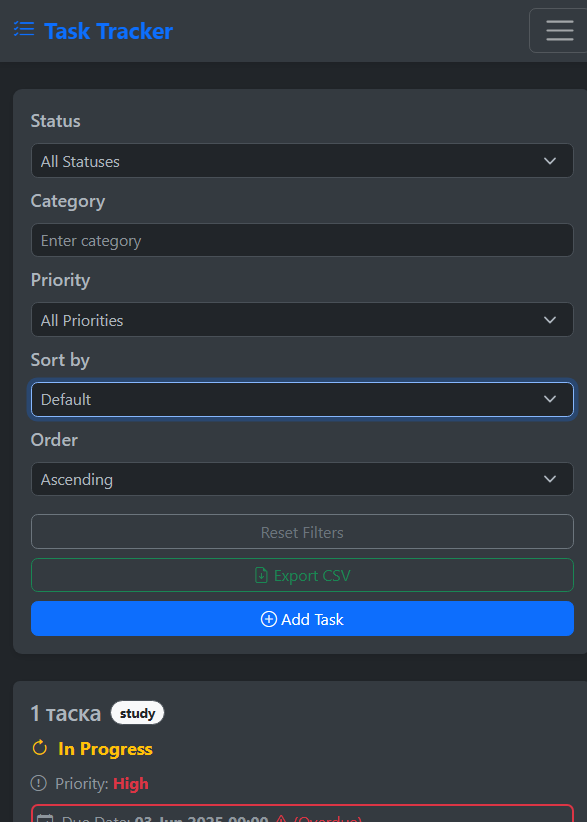
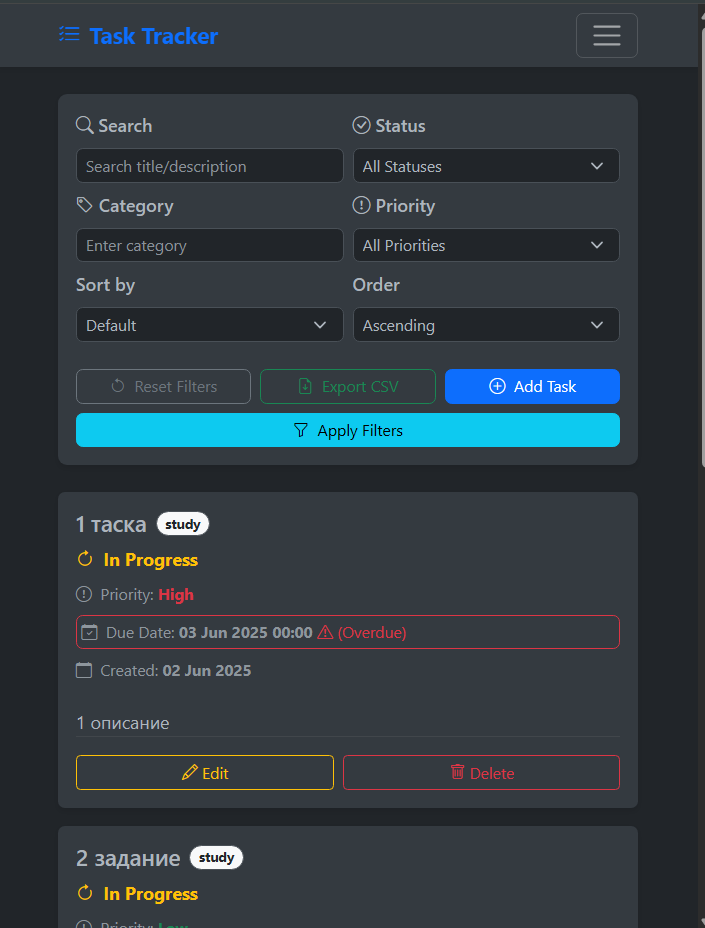
Refactor main page styles and update screenshots
- Updated CSS styles for main layout
- Adjusted HTML structure in index.html
- Replaced outdated screenshots (desktop, mobile)
- Added new tablet view screenshot
- Updated README with latest visuals

diff --git a/app/templates/index.html b/app/templates/index.html
@@ -1,17 +1,20 @@
-{% extends "base.html" %}
+{% extends "base.html" %}  {# Наследование базового шаблона #}
 
-{% block title %}Task Tracker{% endblock %}
+{% block title %}Task Tracker{% endblock %}  {# Заголовок страницы #}
 
 {% block content %}
-<!-- Основной контейнер формы фильтров с закруглёнными углами и тенью -->
 <div class="bg-body-secondary rounded-3 p-3 shadow-sm mb-4">
-    <form method="GET" id="filterForm">
-        <!-- Первый ряд: фильтры и сортировка -->
+    <form method="GET" id="filterForm">  {# Форма фильтров для задач #}
         <div class="row g-2 align-items-end">
-            <!-- Поле выбора статуса задачи -->
-            <div class="col-12 col-sm-6 col-md-3">
+
+            <div class="col-12 col-sm-6 col-md-3 col-lg-2"> {# Расширенный поиск по заголовку/описанию #}
+                <label for="searchFilter" class="form-label fw-medium mb-2"><i class="bi bi-search me-1"></i>Search</label>
+                <input type="text" name="search" id="searchFilter" class="form-control" placeholder="Search title/description" value="{{ request.args.get('search', '') }}">
+            </div>
+            
+            <div class="col-12 col-sm-6 col-md-3 col-lg-2">
                 <label for="statusFilter" class="form-label fw-medium mb-2"> <i class="bi bi-check-circle"></i> Status</label>
-                <select name="status" id="statusFilter" class="form-select" onchange="document.getElementById('filterForm').submit()">
+                <select name="status" id="statusFilter" class="form-select">
                     <option value="">All Statuses</option>
                     <option value="Not Started" {% if status_filter=='Not Started' %}selected{% endif %}>Not Started</option>
                     <option value="In Progress" {% if status_filter=='In Progress' %}selected{% endif %}>In Progress</option>
@@ -19,17 +22,15 @@
                 </select>
             </div>
 
-            <!-- Поле ввода категории задачи -->
-            <div class="col-12 col-sm-6 col-md-3">
+            <div class="col-12 col-sm-6 col-md-3 col-lg-2">
                 <label for="categoryFilter" class="form-label fw-medium mb-2"> <i class="bi bi-tag"></i> Category</label>
                 <input type="text" name="category" id="categoryFilter" class="form-control" placeholder="Enter category"
                        value="{{ category_filter or '' }}">
             </div>
 
-            <!-- Поле выбора приоритета для фильтрации -->
-            <div class="col-12 col-sm-6 col-md-2">
+            <div class="col-12 col-sm-6 col-md-3 col-lg-2">
                 <label for="priorityFilter" class="form-label fw-medium mb-2"> <i class="bi bi-exclamation-circle"></i> Priority</label>
-                <select name="priority" id="priorityFilter" class="form-select" onchange="document.getElementById('filterForm').submit()">
+                <select name="priority" id="priorityFilter" class="form-select">
                     <option value="">All Priorities</option>
                     <option value="High" {% if request.args.get('priority') == 'High' %}selected{% endif %}>High</option>
                     <option value="Medium" {% if request.args.get('priority') == 'Medium' %}selected{% endif %}>Medium</option>
@@ -37,10 +38,11 @@
                 </select>
             </div>
 
-            <!-- Поле выбора критерия сортировки -->
-            <div class="col-12 col-sm-6 col-md-2">
+
+
+            <div class="col-12 col-sm-6 col-md-3 col-lg-2"> {# Сортировка по полям #}
                 <label for="sortBySelect" class="form-label fw-medium mb-2">Sort by</label>
-                <select name="sort_by" id="sortBySelect" class="form-select" onchange="document.getElementById('filterForm').submit()">
+                <select name="sort_by" id="sortBySelect" class="form-select">
                     <option value="id" {% if sort_by=='id' %}selected{% endif %}>Default</option>
                     <option value="created_at" {% if sort_by=='created_at' %}selected{% endif %}>Date Created</option>
                     <option value="priority" {% if sort_by=='priority' %}selected{% endif %}>Priority</option>
@@ -48,92 +50,96 @@
                 </select>
             </div>
 
-            <!-- Поле выбора направления сортировки -->
-            <div class="col-12 col-sm-6 col-md-2">
+            <div class="col-12 col-sm-6 col-md-3 col-lg-2"> {# Порядок сортировки: по возрастанию/убыванию #}
                 <label for="sortOrderSelect" class="form-label fw-medium mb-2">Order</label>
-                <select name="sort_order" id="sortOrderSelect" class="form-select" onchange="document.getElementById('filterForm').submit()">
+                <select name="sort_order" id="sortOrderSelect" class="form-select">
                     <option value="asc" {% if sort_order == 'asc' %}selected{% endif %}>Ascending</option>
                     <option value="desc" {% if sort_order == 'desc' %}selected{% endif %}>Descending</option>
                 </select>
             </div>
         </div>
 
-        <!-- Второй ряд: кнопки действий -->
-        <div class="row g-2 mt-2">
-            <!-- Кнопка сброса фильтров -->
-            <div class="col-12 col-sm-6 col-md-2">
-                <button type="button" class="btn btn-outline-secondary w-100" onclick="resetFilters()">Reset Filters</button>
+        <div class="row g-2 mt-3"> {# Блок кнопок действий #}
+            <div class="col-12 col-sm-4 col-md-3 col-lg-2 d-grid">
+                <button type="button" class="btn btn-outline-secondary" onclick="resetFilters()">
+                    <i class="bi bi-arrow-counterclockwise me-1"></i> Reset Filters
+                </button>
             </div>
 
-            <!-- Кнопка экспорта в CSV -->
-            <div class="col-12 col-sm-6 col-md-2">
-                <a href="{{ url_for('main.export_tasks') }}" class="btn btn-outline-success w-100 d-flex align-items-center justify-content-center">
+            <div class="col-12 col-sm-4 col-md-3 col-lg-2 d-grid">
+                <a href="{{ url_for('main.export_tasks') }}" class="btn btn-outline-success">
                     <i class="bi bi-file-earmark-arrow-down me-1"></i> Export CSV
                 </a>
             </div>
 
-            <!-- Кнопка добавления задачи -->
-            <div class="col-12 col-sm-6 col-md-2">
-                <a href="{{ url_for('main.add_task') }}" class="btn btn-primary w-100 d-flex align-items-center justify-content-center">
+            <div class="col-12 col-sm-4 col-md-3 col-lg-2 d-grid">
+                <a href="{{ url_for('main.add_task') }}" class="btn btn-primary">
                     <i class="bi bi-plus-circle me-1"></i> Add Task
                 </a>
+            </div>
+
+            <div class="col-12 col-sm-12 col-md-3 col-lg-6 d-grid d-md-flex justify-content-md-end">
+                 <button type="submit" class="btn btn-info">
+                    <i class="bi bi-funnel me-1"></i> Apply Filters
+                </button>
             </div>
         </div>
     </form>
 </div>
 
-<!-- Скрипт для сброса фильтров -->
 <script>
     function resetFilters() {
-        // Сбрасываем все поля формы на значения по умолчанию
+        // Сброс всех фильтров формы
         document.getElementById('statusFilter').value = '';
         document.getElementById('categoryFilter').value = '';
-        document.getElementById('priorityFilter').value = '';  // Сброс фильтра по приоритету
+        document.getElementById('priorityFilter').value = '';
+        document.getElementById('searchFilter').value = '';
         document.getElementById('sortBySelect').value = 'id';
         document.getElementById('sortOrderSelect').value = 'asc';
         document.getElementById('filterForm').submit();
     }
+
+    // Автоприменение select-фильтров при изменении
+    document.addEventListener('DOMContentLoaded', function() {
+        document.getElementById('statusFilter').addEventListener('change', function() {
+            document.getElementById('filterForm').submit();
+        });
+        document.getElementById('priorityFilter').addEventListener('change', function() {
+            document.getElementById('filterForm').submit();
+        });
+        document.getElementById('sortBySelect').addEventListener('change', function() {
+            document.getElementById('filterForm').submit();
+        });
+        document.getElementById('sortOrderSelect').addEventListener('change', function() {
+            document.getElementById('filterForm').submit();
+        });
+    });
 </script>
 
-<!-- Сетка для отображения задач в виде карточек -->
-<div class="row g-3">
+<div class="row g-3">  {# Карточки задач #}
     {% for task in tasks %}
     <div class="col-12 col-md-6 col-lg-4">
-        <!-- Карточка задачи с фиксированной высотой и тенью -->
         <div class="card h-100 bg-body-secondary border-0 shadow-sm task-item-card">
             <div class="card-body p-3 d-flex flex-column">
-                <!-- Заголовок и категория задачи -->
                 <div class="d-flex align-items-center mb-2">
                     <h5 class="task-title mb-0 me-2 text-truncate">{{ task.title }}</h5>
                     <span class="badge bg-light text-dark border rounded-pill flex-shrink-0">{{ task.category }}</span>
                 </div>
 
-                <!-- Статус задачи с цветовым индикатором -->
                 <div class="mb-2">
-                    <strong class="
-                        {% if task.status == 'Not Started' %}text-danger
-                        {% elif task.status == 'In Progress' %}text-warning
-                        {% else %}text-success{% endif %}">
-                        <i class="bi
-                            {% if task.status == 'Not Started' %}bi-x-circle-fill
-                            {% elif task.status == 'In Progress' %}bi-arrow-clockwise
-                            {% else %}bi-check-circle-fill{% endif %} me-1"></i>
+                    <strong class="{% if task.status == 'Not Started' %}text-danger{% elif task.status == 'In Progress' %}text-warning{% else %}text-success{% endif %}">
+                        <i class="bi {% if task.status == 'Not Started' %}bi-x-circle-fill{% elif task.status == 'In Progress' %}bi-arrow-clockwise{% else %}bi-check-circle-fill{% endif %} me-1"></i>
                         {{ task.status }}
                     </strong>
                 </div>
 
-                <!-- Приоритет задачи с цветовым индикатором -->
                 <div class="mb-2 text-muted small">
                     <i class="bi bi-exclamation-circle me-1"></i> Priority:
-                    <strong class="
-                        {% if task.priority == 'High' %}text-danger
-                        {% elif task.priority == 'Medium' %}text-warning
-                        {% else %}text-success{% endif %}">
+                    <strong class="{% if task.priority == 'High' %}text-danger{% elif task.priority == 'Medium' %}text-warning{% else %}text-success{% endif %}">
                         {{ task.priority }}
                     </strong>
                 </div>
 
-                <!-- Срок выполнения задачи с индикатором просрочки (красная рамка и текст) -->
                 <div class="mb-2 text-muted small {% if task.due_date and task.due_date < current_datetime and task.status != 'Completed' %}border border-danger rounded p-1{% endif %}">
                     <i class="bi bi-calendar-check me-1"></i> Due Date:
                     {% if task.due_date %}
@@ -146,20 +152,17 @@
                     {% endif %}
                 </div>
 
-                <!-- Дата создания задачи -->
                 <div class="mb-2 text-muted small">
                     <i class="bi bi-calendar me-1"></i> Created:
                     <strong>{{ task.created_at.strftime('%d %b %Y') }}</strong>
                 </div>
 
-                <!-- Описание задачи, если оно есть -->
                 {% if task.description %}
                 <div class="mt-3 flex-grow-1">
                     <p class="mb-0 text-break">{{ task.description }}</p>
                 </div>
                 {% endif %}
 
-                <!-- Кнопки редактирования и удаления, выровнены по нижнему краю -->
                 <div class="d-flex gap-2 mt-auto pt-3 border-top border-secondary-subtle">
                     <a href="{{ url_for('main.edit_task', id=task.id) }}"
                        class="btn btn-sm btn-outline-warning d-flex align-items-center flex-grow-1 justify-content-center">
@@ -178,7 +181,6 @@
         </div>
     </div>
     {% else %}
-    <!-- Сообщение, если задач нет -->
     <div class="col-12">
         <div class="alert alert-info text-center py-4">
             <i class="bi bi-inbox fs-2 mb-3"></i>

diff --git a/app/static/css/style_base.css b/app/static/css/style_base.css
@@ -155,6 +155,3 @@ html, .navbar, .offcanvas, .footer, .alert, .table {
     }
 }
 
-.border-danger {
-    border-width: 2px !important;
-}

diff --git a/app/routes.py b/app/routes.py
@@ -25,9 +25,18 @@ def index():
     priority_filter = request.args.get('priority')  # получение фильтра по приоритету
     sort_by = request.args.get('sort_by', 'id')  # По умолчанию сортировка по ID
     sort_order = request.args.get('sort_order', 'asc')  # По умолчанию возрастающий порядок
+    search_filter = request.args.get('search')
 
     # Формируем базовый запрос для задач текущего пользователя
     query = Task.query.filter_by(user_id=current_user.id)
+
+    # Если есть фильтр по поиску, применяем его
+    if search_filter:
+        query = query.filter(
+            (Task.title.ilike(f'%{search_filter}%')) |
+            (Task.description.ilike(f'%{search_filter}%'))
+        )
+
 
     # Применяем фильтр по статусу, если он указан
     if status_filter:
@@ -266,13 +275,3 @@ def export_tasks():
         ])
     output.seek(0)
     return Response(output, mimetype='text/csv', headers={'Content-Disposition': 'attachment;filename=tasks.csv'})
-
-# # Обработчик ошибки 404 (страница не найдена)
-# @bp.errorhandler(404)
-# def page_not_found(e):
-#     return render_template('404.html'), 404
-#
-# # Обработчик ошибки 500 (внутренняя ошибка сервера)
-# @bp.errorhandler(500)
-# def internal_server_error(e):
-#     return render_template('500.html'), 500
